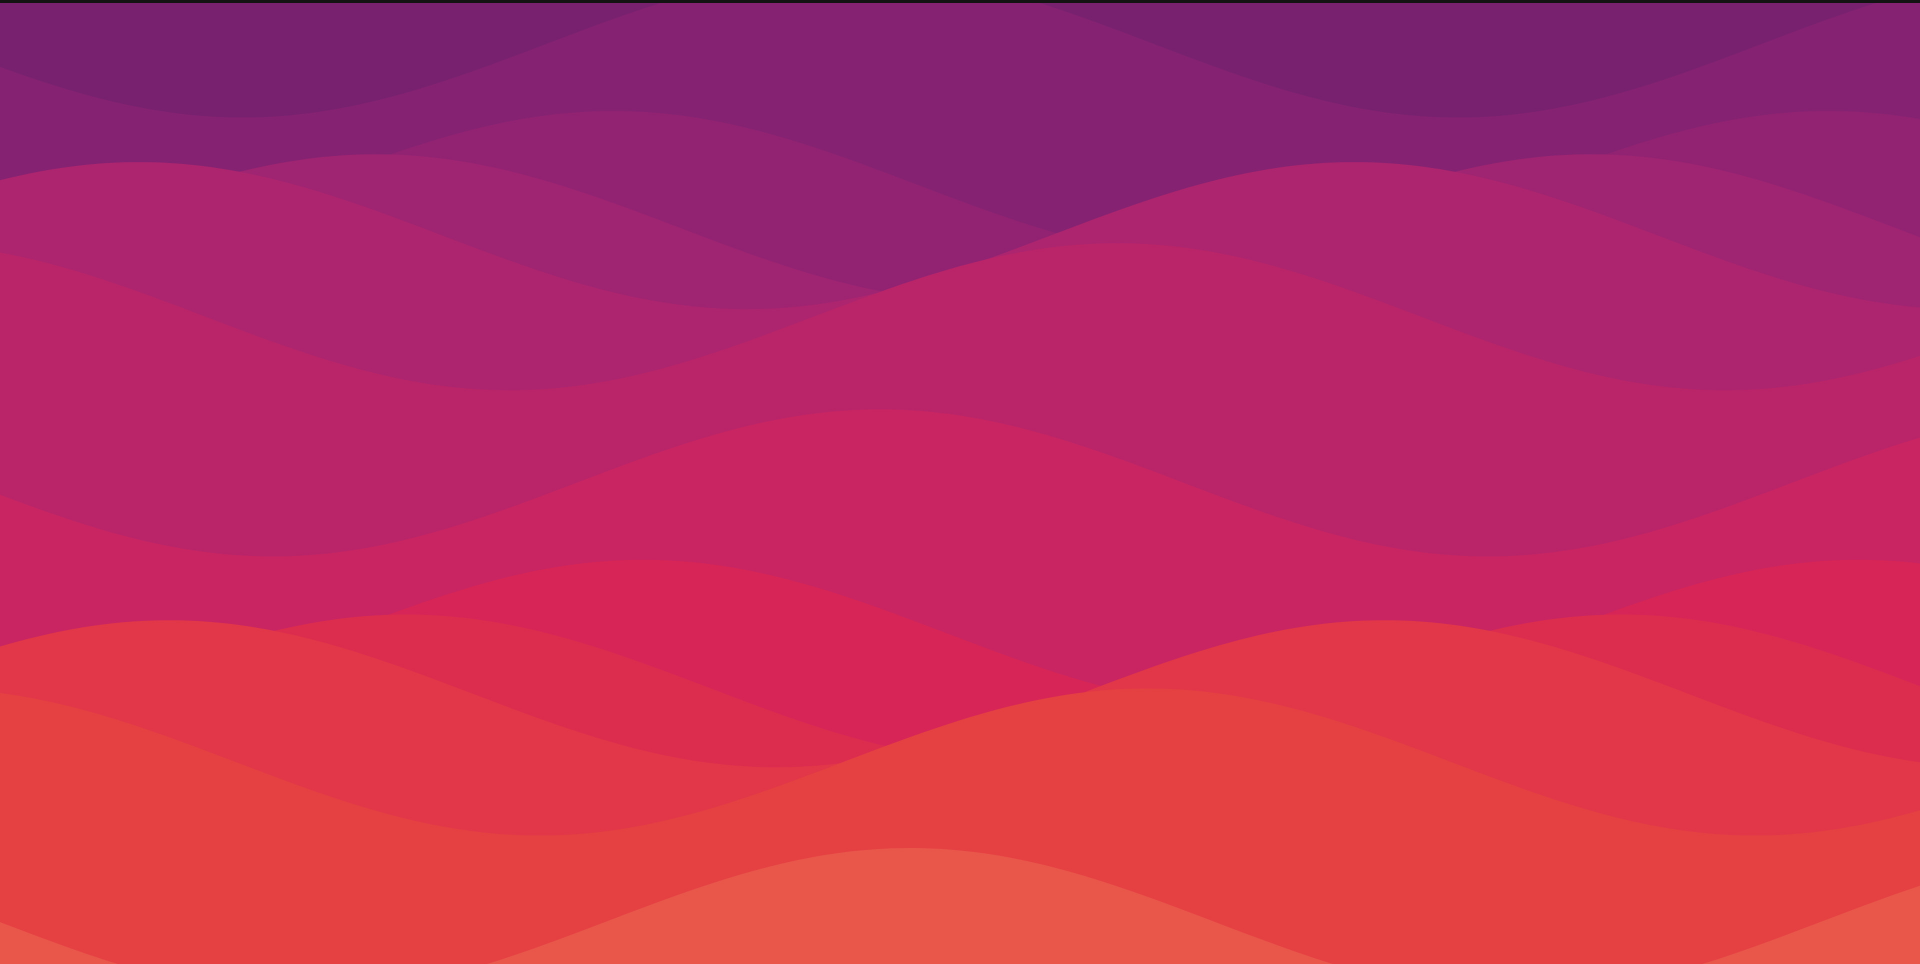
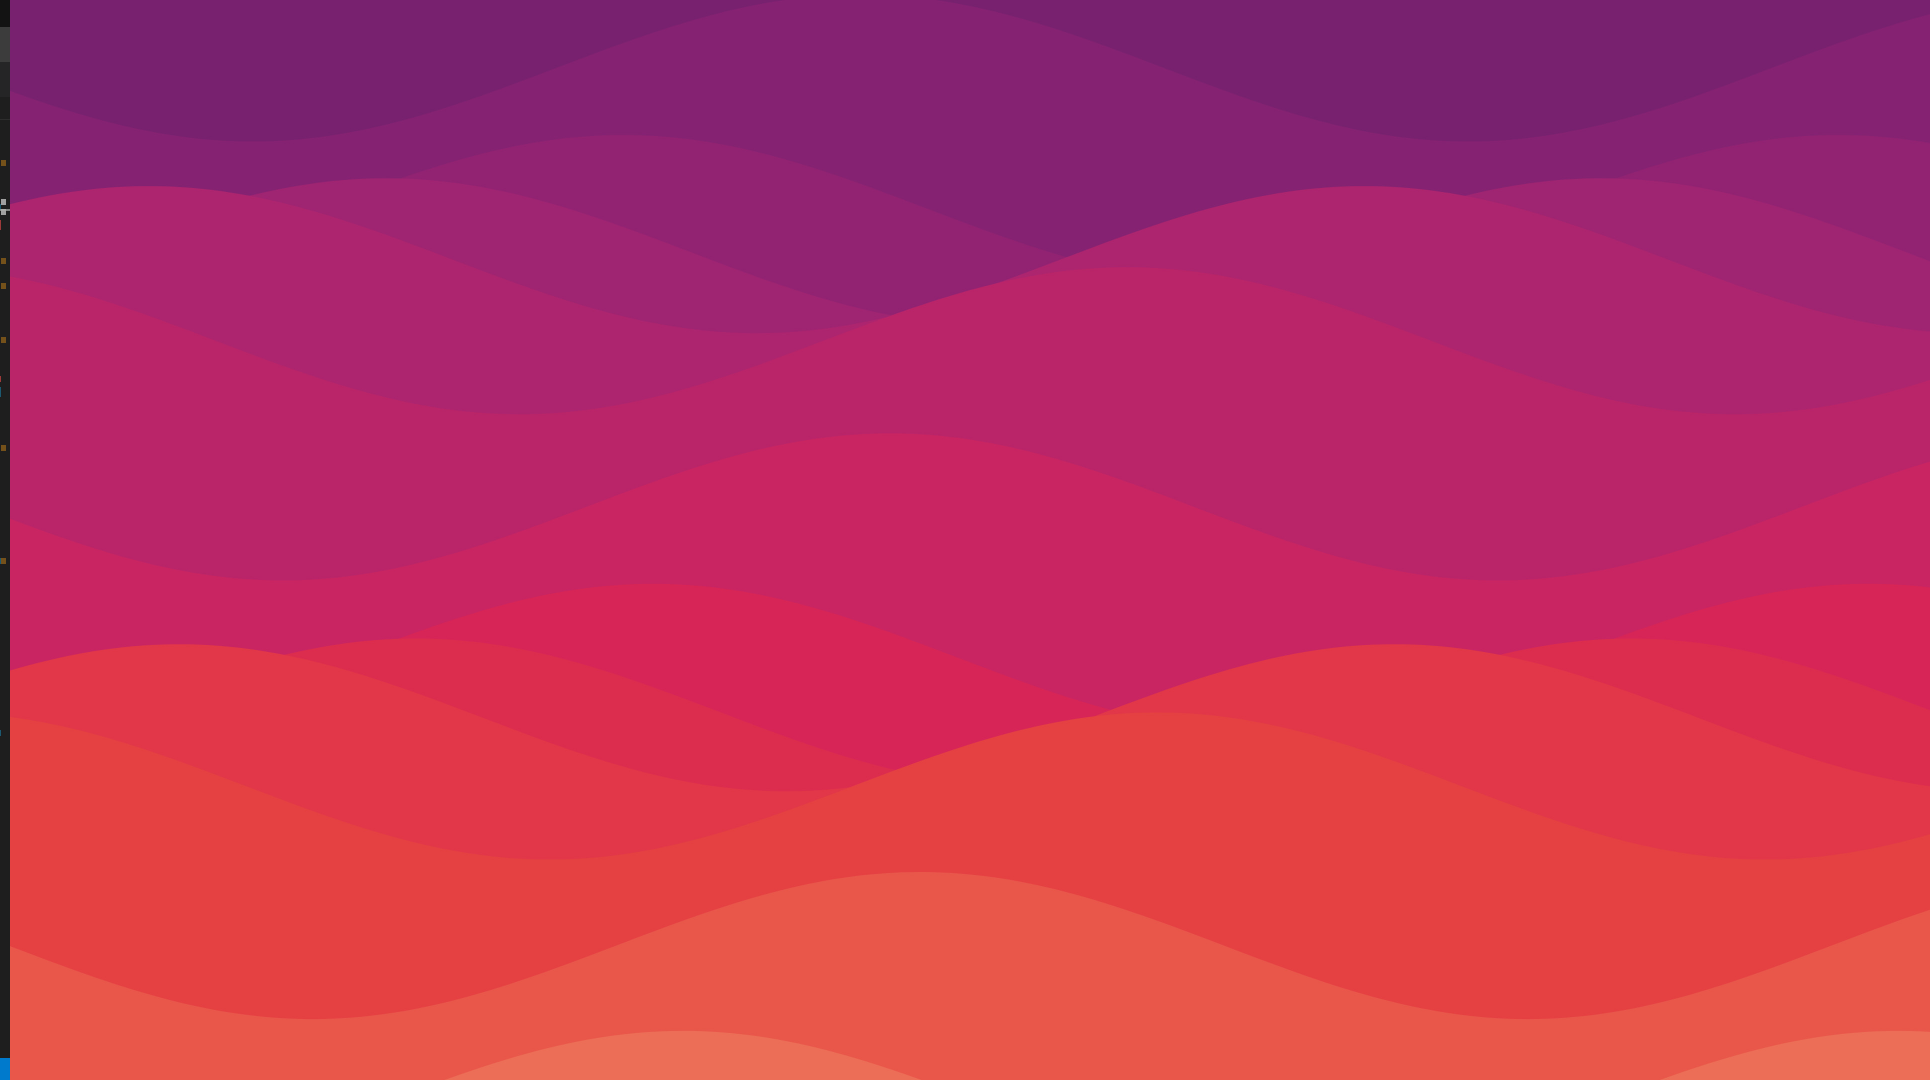
fix responsive issue

diff --git a/command-menu/assets/style.css b/command-menu/assets/style.css
@@ -13,14 +13,12 @@ a {
 }
 
 .bg-image{
-    background-image: url("./bg.png");
+    background: url("./bg.png") no-repeat center center fixed; 
 }
 
 .container {
-    height: 400px;
-    min-width: 500px;
     margin: 150px auto;
-    padding:30px;
+    max-width: 800px;
 }
 
 .search-border {
@@ -34,7 +32,7 @@ a {
     background-color:rgba(0,0,0,0.4);
     border-radius: 16px;
     overflow: hidden;
-    color:#e3e3e3
+    color:#e3e3e3;
 }
 
 .search-input {
@@ -52,9 +50,9 @@ a {
 outline: none;
 }
 
-
 .search-input-wrapper{
-    margin-left: 25px
+    margin-left: 25px;
+    display:flex;
 }
 
 
@@ -88,7 +86,7 @@ outline: none;
 .search-result-footer {
     display: flex;
     flex-direction: row;
-    padding: 16px 160px 16px 24px;
+    padding: 16px 16px 16px 24px;
     background-color: rgba(0,0,0,0.40);
     border-top: 1px solid #7e7e7ea3;
 }
@@ -123,7 +121,7 @@ outline: none;
 }
 
 .hide {
-    display: none;
+     display: none; 
 }
 
 .fa-command {

diff --git a/command-menu/index.html b/command-menu/index.html
@@ -19,9 +19,15 @@
         <div class="search-border">
             <div class="search-container">
                 <div class="search-input-wrapper">
-                    <i class="fa-solid fa-search"></i>
-                    <input type="text" placeholder="Type a command or search" class="search-input" />
-                    <i class="fa-command"></i> /
+                    <div style="margin-top: 20px; margin-right: 8px;">
+                        <i class="fa-solid fa-search"></i>
+                    </div>
+                    <div style="flex:2;">
+                        <input type="text" placeholder="Type a command or search" class="search-input" />
+                    </div>
+                    <div style="margin-right: 28px; margin-top: 10px;">
+                        <i class="fa-command"></i> /
+                    </div>
                 </div>
 
 
